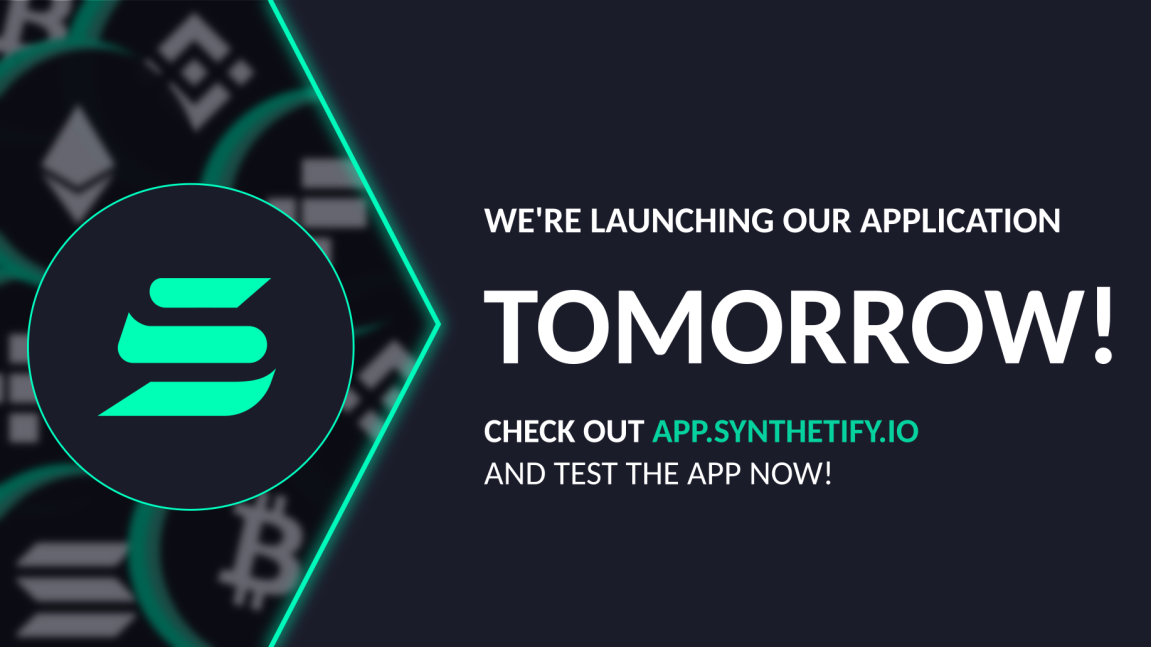
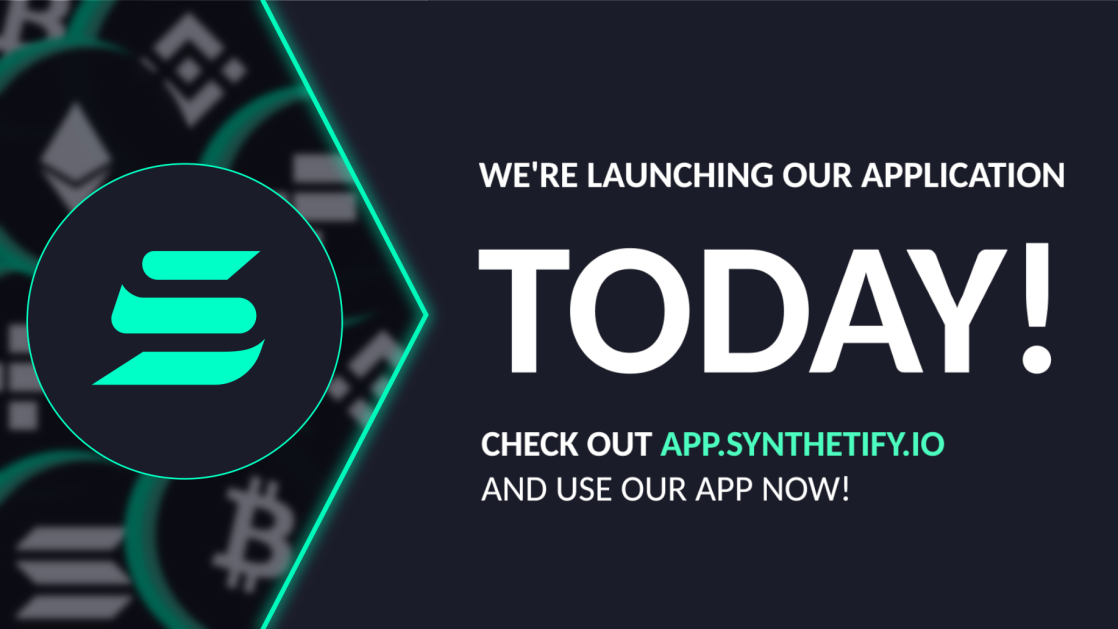
Blog final posts for launch

diff --git a/src/blogPosts/app-tutorial.md b/src/blogPosts/app-tutorial.md
@@ -1,0 +1,44 @@
+---
+title: "Application tutorial"
+date: "2021-10-05 12:00:00"
+description: "The milestone reached!"
+image: "/blog/appTutorial.png"
+---
+
+![appTutorial](/blog/appTutorial.png)
+
+**Hello there!**
+
+Just two weeks ago some of you were taken by surprise and were able to receive a brand-new NFT (or even more than one). Right in this moment we are on the corner of another and the most awaited event: Synthetify assets exchange platform release! **<confetti and fireworks explosion sounds>**
+						
+Probably most of you have already had a chance to try it out, however some newcomers could be not familiarized with its functionalities. But here we are! We would love to present the key features and explain the ideas behind them.
+
+So how to start? The very first step is to connect your wallet, either Phantom, Sollet or Math Wallet by using Connect button in right upper corner. Pick preferred one and log in as usual.
+
+And that's it for the setup! As you can see it's pretty easy. Now we can proceed to features explanation.
+
+By default, the staking page is displayed right after the application is launched. The first two panels indicates information about your staked value and debt status (hover over question marks to read more about them).
+
+In the central part you can choose between variety of actions:
+
+* Deposit \- Transfers tokens from your wallet increasing staked value and your collateral. At the release only SNY will be available, adding more tokens in the future.
+* Mint \- Creates xUSD tokens. The amount you can mint is calculated basing on your asset type and its collateral ratio, which describes percent of collateral securing your debt. Moreover, it locks your collateral tokens disallowing you to withdraw the locked amount.
+* Withdraw \- Transfers tokens back to your wallet, however only those that doesn't count toward securing your debt. The maximum amount to be withdrawn is calculated basing on price variation and fluctuations in the debt pool.
+* Burn \- Destroys your synthetic assets unlocking your collateral tokens making them available for withdrawal.
+* Rewards \- Rewarding process consists of three phases. In the subscription phase you receive points depending on your contribution towards increasing debt pool. Afterwards, your points are forwarded to the staking phase. During this period your points can be maintained keeping your debt and decreased burning your synthetic assets. In the claiming phase you are entitled to collect your reward as SNY tokens proportionally to number of points accumulated at the end of the previous phase. Remember that in the end of this phase any unclaimed tokens are lost!
+
+In the bottom-most part you can find your staked and synthetic tokens grouped into their responding categories.
+
+![Staking gif](/blog/staking.gif)
+				
+Furthermore, Synthetify application provides you with exchange functionality, which can be found in exchange tab in the right upper corner.
+On the left hand side you can select one of the available synthetic tokens and below choose another one to be obtained in exchange for the first one. Now you can see the exchange rate for a pair and you can accept by clicking on the green button. You can confirm that the transaction succeeded going to staking tab and checking if amounts of your synthetic assets changed.
+The greatest advantage of our DEX is infinite liquidity of each of the synthetic assets. Those are only limited by their max supply, which can be seen on the right hand side of the screen.
+
+![Exchange gif](/blog/exchange.gif)
+				
+Last but not least, the stats. There you can view global statistics of the Synthetify application. Here you can find collateral, volume and many other figures you can utilize to optimize your investment decisions.
+
+![Stats pic](/blog/STATS.png)
+				
+Hope you guys are as excited as we are and remember: to the **MOON!**

diff --git a/src/blogPosts/mainnet-launch.md b/src/blogPosts/mainnet-launch.md
@@ -1,6 +1,6 @@
 ---
 title: "Mainnet launch"
-date: "2021-10-04 11:00:00"
+date: "2021-10-05 11:00:00"
 description: "The awaited day is coming"
 image: "/blog/firstPost.png"
 ---
@@ -16,5 +16,5 @@ What you should know now:
 2. In the beginning, you can swap five different synthetic assets: xUSD, xBTC, xSOL, xFF and xETH.
 3. You have approx. 40h to subscribe for the first staking round. In this round, the total rewards pool is 20.000 SNY. It increases every week.
 
-We prepared a [quick guide](../appTutorial) on Synthetify.
+We prepared a [quick guide](../app-tutorial) on Synthetify.
 
